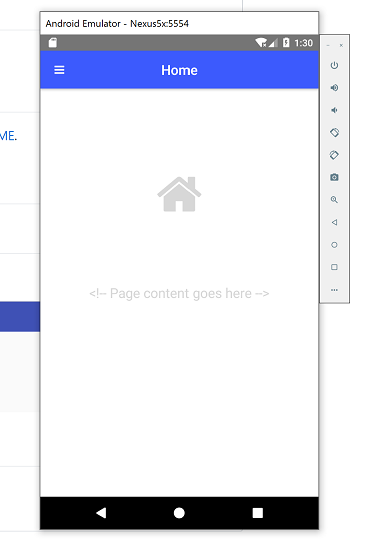
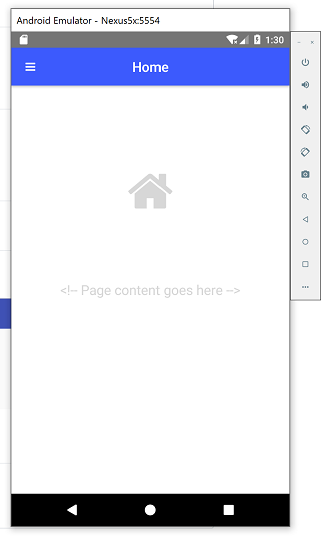
img

diff --git a/README.md b/README.md
@@ -37,4 +37,4 @@ Run `ng serve`
 
 Run `tns run android --bundle` 
 
-![alt text](android1.png)
+![alt text](android1.png | width=100)
